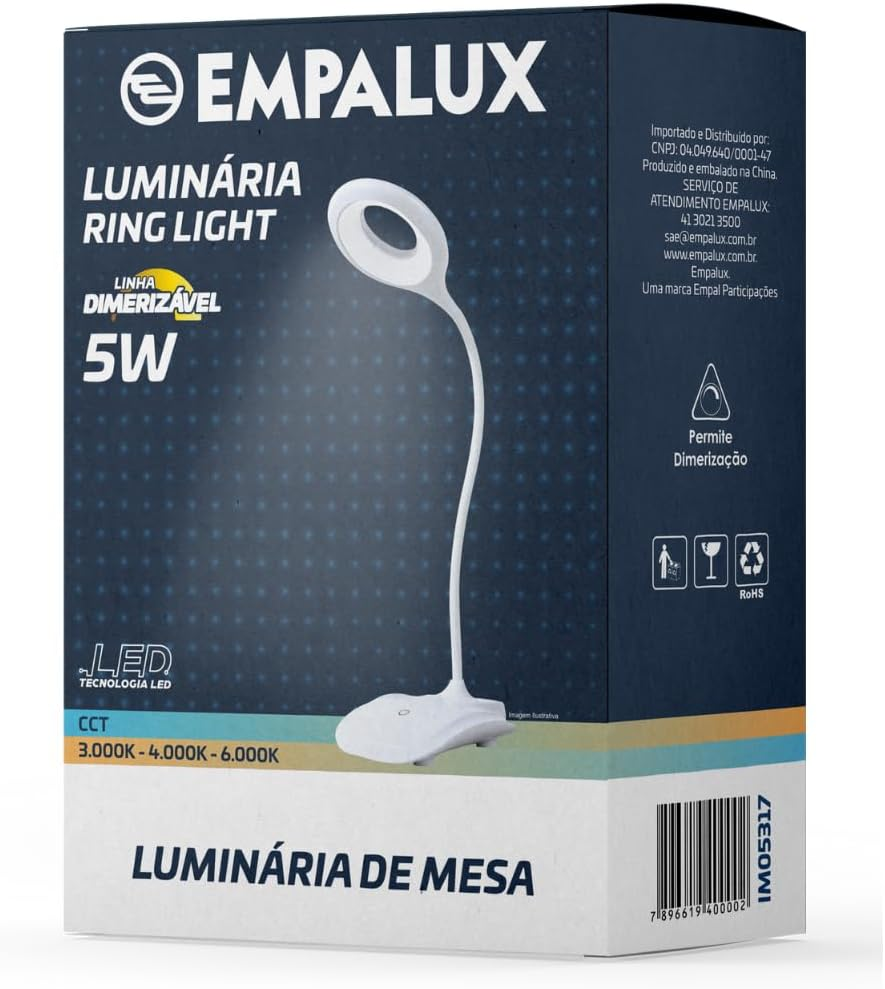
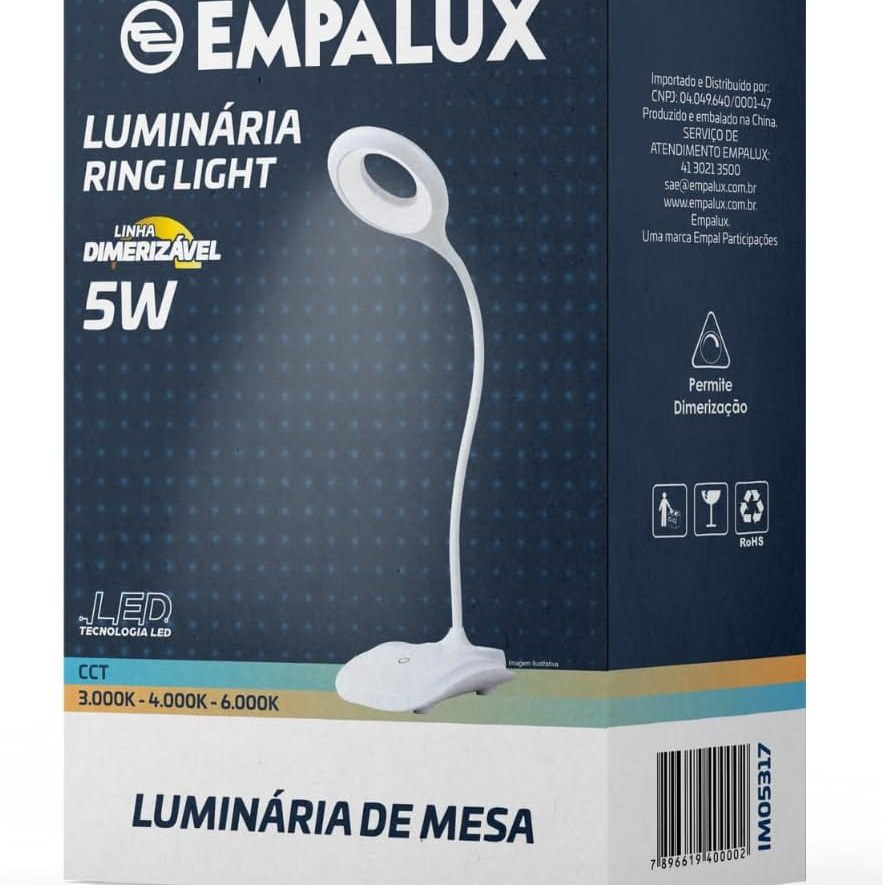
fix: imagens da luminaria de mesa quadradas e bem enquadradas Co-authored-by: monkeycode-ai <monkeycode-ai@chaitin.com>

diff --git a/js/produtos.js b/js/produtos.js
@@ -2114,9 +2114,10 @@ const PRODUTOS = [
     destaque: true,
     bestseller: false,
     imagens: [
-      'images/produtos/luminaria-mesa-branca1.jpg',
-      'images/produtos/luminaria-mesa-branca2.jpg',
+      'images/produtos/luminaria-mesa-branca4.jpg',
       'images/produtos/luminaria-mesa-branca3.jpg',
+      'images/produtos/luminaria-mesa-branca2.jpg',
+      'images/produtos/luminaria-mesa-branca1.jpg',
     ],
     curto: 'Luminária de mesa com luz LED de 6W, elegante e compacta para qualquer ambiente.',
     descricao:
